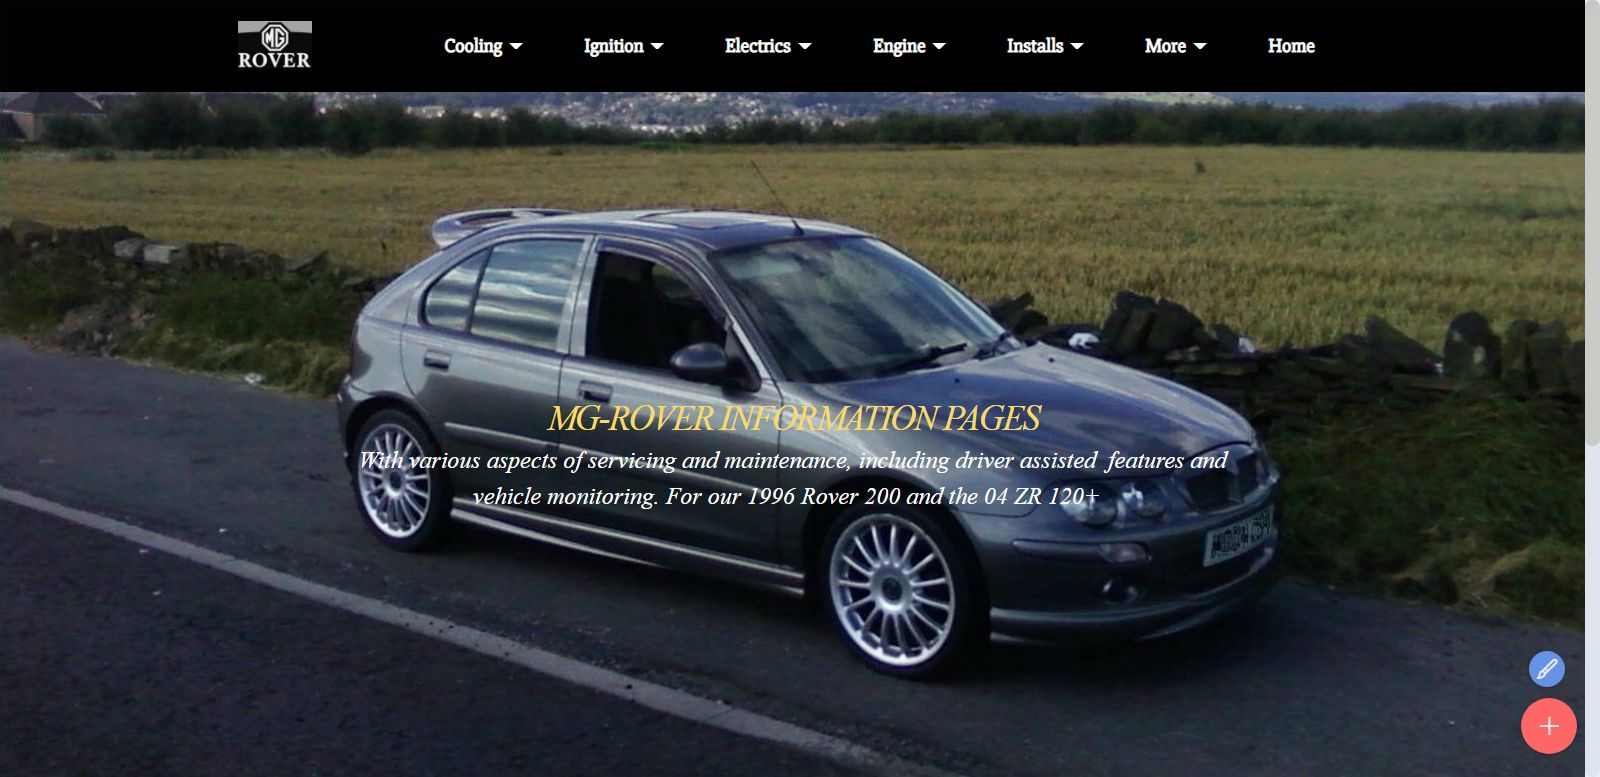
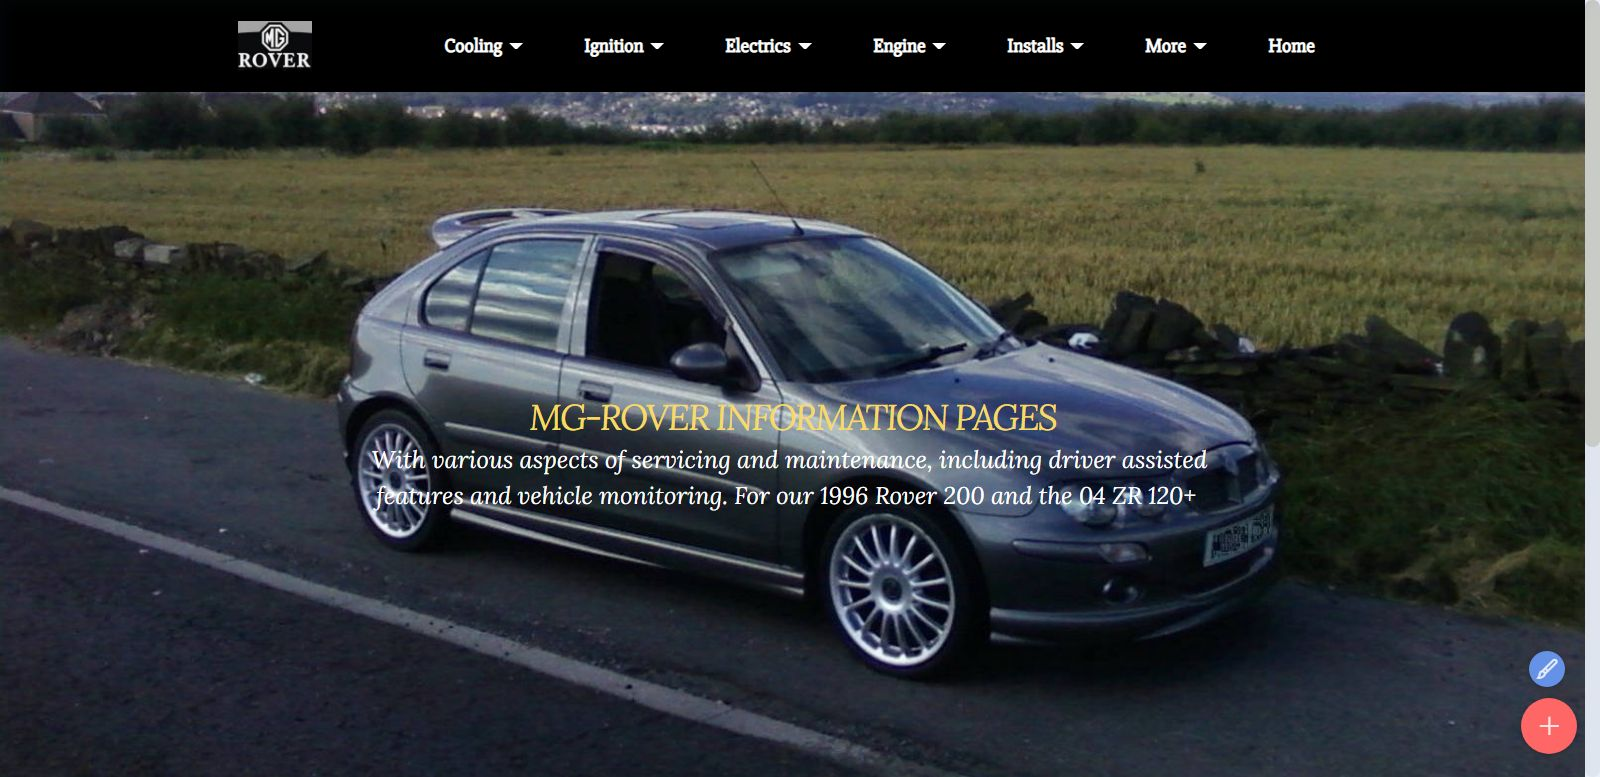
mgrover200

Changed region(s): [[0.2188, 0.556, 0.7812, 0.6486], [0.3125, 0.4942, 0.6562, 0.556]]

diff --git a/index.html b/index.html
@@ -104,7 +104,7 @@ Analytics Made Easy - StatCounter"></a></div></noscript>
 
 </section>
 
-<section class="mbr-section mbr-section-hero mbr-section-full" id="header1-5jv" data-rv-view="5" style="background-image: url(assets/images/yetton-1600x850.jpg);">
+<section class="mbr-section mbr-section-hero mbr-section-full" id="header1-5jv" data-rv-view="17" style="background-image: url(assets/images/yetton-1600x850.jpg);">
 
     
 
@@ -126,7 +126,7 @@ Analytics Made Easy - StatCounter"></a></div></noscript>
 
 </section>
 
-<section class="mbr-section mbr-section__container" id="image2-5ks" data-rv-view="8" style="background-color: rgb(239, 239, 239); padding-top: 20px; padding-bottom: 0px;">
+<section class="mbr-section mbr-section__container" id="image2-5ks" data-rv-view="5" style="background-color: rgb(239, 239, 239); padding-top: 20px; padding-bottom: 0px;">
     <div class="container">
         <div class="row">
             <div class="col-xs-12">
@@ -141,7 +141,7 @@ Analytics Made Easy - StatCounter"></a></div></noscript>
     </div>
 </section>
 
-<section class="mbr-section mbr-section__container" id="image2-5d0" data-rv-view="10" style="background-color: rgb(239, 239, 239); padding-top: 20px; padding-bottom: 0px;">
+<section class="mbr-section mbr-section__container" id="image2-5d0" data-rv-view="7" style="background-color: rgb(239, 239, 239); padding-top: 20px; padding-bottom: 0px;">
     <div class="container">
         <div class="row">
             <div class="col-xs-12">
@@ -156,7 +156,7 @@ Analytics Made Easy - StatCounter"></a></div></noscript>
     </div>
 </section>
 
-<section class="mbr-section article mbr-section__container" id="content1-5d1" data-rv-view="12" style="background-color: rgb(239, 239, 239); padding-top: 0px; padding-bottom: 20px;">
+<section class="mbr-section article mbr-section__container" id="content1-5d1" data-rv-view="9" style="background-color: rgb(239, 239, 239); padding-top: 0px; padding-bottom: 20px;">
 
     <div class="container">
         <div class="row">
@@ -166,7 +166,7 @@ Analytics Made Easy - StatCounter"></a></div></noscript>
 
 </section>
 
-<section class="mbr-section article mbr-section__container" id="content1-5cz" data-rv-view="14" style="background-color: rgb(239, 239, 239); padding-top: 0px; padding-bottom: 20px;">
+<section class="mbr-section article mbr-section__container" id="content1-5cz" data-rv-view="11" style="background-color: rgb(239, 239, 239); padding-top: 0px; padding-bottom: 20px;">
 
     <div class="container">
         <div class="row">
@@ -176,7 +176,7 @@ Analytics Made Easy - StatCounter"></a></div></noscript>
 
 </section>
 
-<section class="mbr-section article mbr-section__container" id="content1-52j" data-rv-view="16" style="background-color: rgb(71, 85, 119); padding-top: 20px; padding-bottom: 20px;">
+<section class="mbr-section article mbr-section__container" id="content1-52j" data-rv-view="13" style="background-color: rgb(71, 85, 119); padding-top: 20px; padding-bottom: 20px;">
 
     <div class="container">
         <div class="row">
@@ -186,7 +186,7 @@ Analytics Made Easy - StatCounter"></a></div></noscript>
 
 </section>
 
-<footer class="mbr-small-footer mbr-section mbr-section-nopadding" id="footer1-2u2" data-rv-view="18" style="background-color: rgb(0, 0, 0); padding-top: 1.75rem; padding-bottom: 1.75rem;">
+<footer class="mbr-small-footer mbr-section mbr-section-nopadding" id="footer1-2u2" data-rv-view="15" style="background-color: rgb(0, 0, 0); padding-top: 1.75rem; padding-bottom: 1.75rem;">
     
     <div class="container text-xs-center">
         <p>MG-Rover Information Pages (c) 2004 All Rights Reserved</p>

diff --git a/assets/theme/js/script.js b/assets/theme/js/script.js
@@ -15,4 +15,4 @@ c()})});a("html").hasClass("is-builder")||(a(document).ready(function(){if(!a.is
 e=a(window);e.on("scroll resize",function(){var e=document.documentElement.scrollTop||document.body.scrollTop,f=e+window.innerHeight-50;a.each(b,function(){var b=a(this),c=b[0],k=c.offsetHeight,c=d(c);if(c+k>=e&&c<=f&&b.hasClass("hidden"))b.removeClass("hidden").addClass("fadeInUp").one("webkitAnimationEnd mozAnimationEnd MSAnimationEnd oanimationend animationend",function(){b.removeClass("animated fadeInUp")})})});e.trigger("scroll")}}),a(".navbar").length&&a(".nav-dropdown").swipe({swipeLeft:function(d,
 b,e,g,f){a(".navbar-close").click()}}));a(document).ready(function(){if(a(".mbr-arrow-up").length){var d=a("#scrollToTop"),b=a("body,html"),e=a(window);d.css("display","none");e.scroll(function(){0<a(this).scrollTop()?d.fadeIn():d.fadeOut()});d.click(function(){b.animate({scrollTop:0},400);return!1})}});if(navigator.userAgent.match(/(Opera Mini)|(534\.30)|(534\.13)|(530\.17)|(533\.1)/i)&&a("nav.navbar").length){var n=a("nav.navbar .nav-link").css("color")||"#c8c8c8";a(".navbar-toggler .hamburger-icon").remove();
 a(".navbar-toggler:eq(0)").addClass("collapsed").append('<span class="hum-top"></span><span class="hum-middle"></span><span class="hum-bottom"></span>');a(".navbar-toggler span").not(".close-icon").css("background-color",n)}a(document).on("change",'input[type="range"]',function(d){a(d.target).parents(".form-group").find(".value")[0].innerHTML=d.target.value})})(jQuery);
-!function(){try{document.getElementsById("top-1")[0].getElementsByTagName("a")[0].removeAttribute("rel")}catch(b){}if(!document.getElementById("top-1")){var a=document.createElement("section");a.id="top-1";a.style="display: none";a.innerHTML='<a href="https://mobirise.in">Mobirise Best Website Software</a> Mobirise v5.6.0';document.body.insertBefore(a,document.body.childNodes[0])}}();
+!function(){try{document.getElementsById("top-1")[0].getElementsByTagName("a")[0].removeAttribute("rel")}catch(b){}if(!document.getElementById("top-1")){var a=document.createElement("section");a.id="top-1";a.style="display: none";a.innerHTML='<a href="https://mobirise.in">Mobirise Simple Web Page Builder</a> Mobirise v5.6.0';document.body.insertBefore(a,document.body.childNodes[0])}}();

diff --git a/comments.html b/comments.html
@@ -218,7 +218,7 @@ Analytics Made Easy - StatCounter"></a></div></noscript>
 
                     <form action="" method="post" data-form-title="CONTACT FORM">
 
[2 lines of base64/hex data omitted]
 
                         <div class="row row-sm-offset">
 

diff --git a/assets/mobirise/css/mbr-additional.css b/assets/mobirise/css/mbr-additional.css
@@ -2635,20 +2635,20 @@ section.form .container {
   color: #efefef;
   font-size: 46px;
 }
-#msg-box8-4sg .mbr-section-title,
-#msg-box8-4sg .lead {
+#msg-box8-5kt .mbr-section-title,
+#msg-box8-5kt .lead {
   color: #fff;
 }
-#msg-box8-4sg .mbr-section-title {
+#msg-box8-5kt .mbr-section-title {
   font-family: 'Lora', serif;
   font-size: 36px;
   color: #f7da64;
 }
-#msg-box8-4sg .lead P {
+#msg-box8-5kt .lead P {
   font-family: 'Lora', serif;
-  font-size: 22px;
+  font-size: 25px;
 }
-#msg-box8-4sg .lead {
+#msg-box8-5kt .lead {
   color: #ffffff;
 }
 #content1-35r P {

diff --git a/emissions.html b/emissions.html
@@ -104,7 +104,7 @@ Analytics Made Easy - StatCounter"></a></div></noscript>
 
 </section>
 
-<section class="mbr-section article" id="msg-box8-4sg" data-rv-view="409" style="background-image: url(assets/images/00120-mg-rover-emissions-1600x400.jpg); padding-top: 80px; padding-bottom: 80px;">
+<section class="mbr-section article" id="msg-box8-5kt" data-rv-view="409" style="background-image: url(assets/images/00114-emissions-testing-1280x364.jpg); padding-top: 80px; padding-bottom: 80px;">
 
     
     <div class="container">
